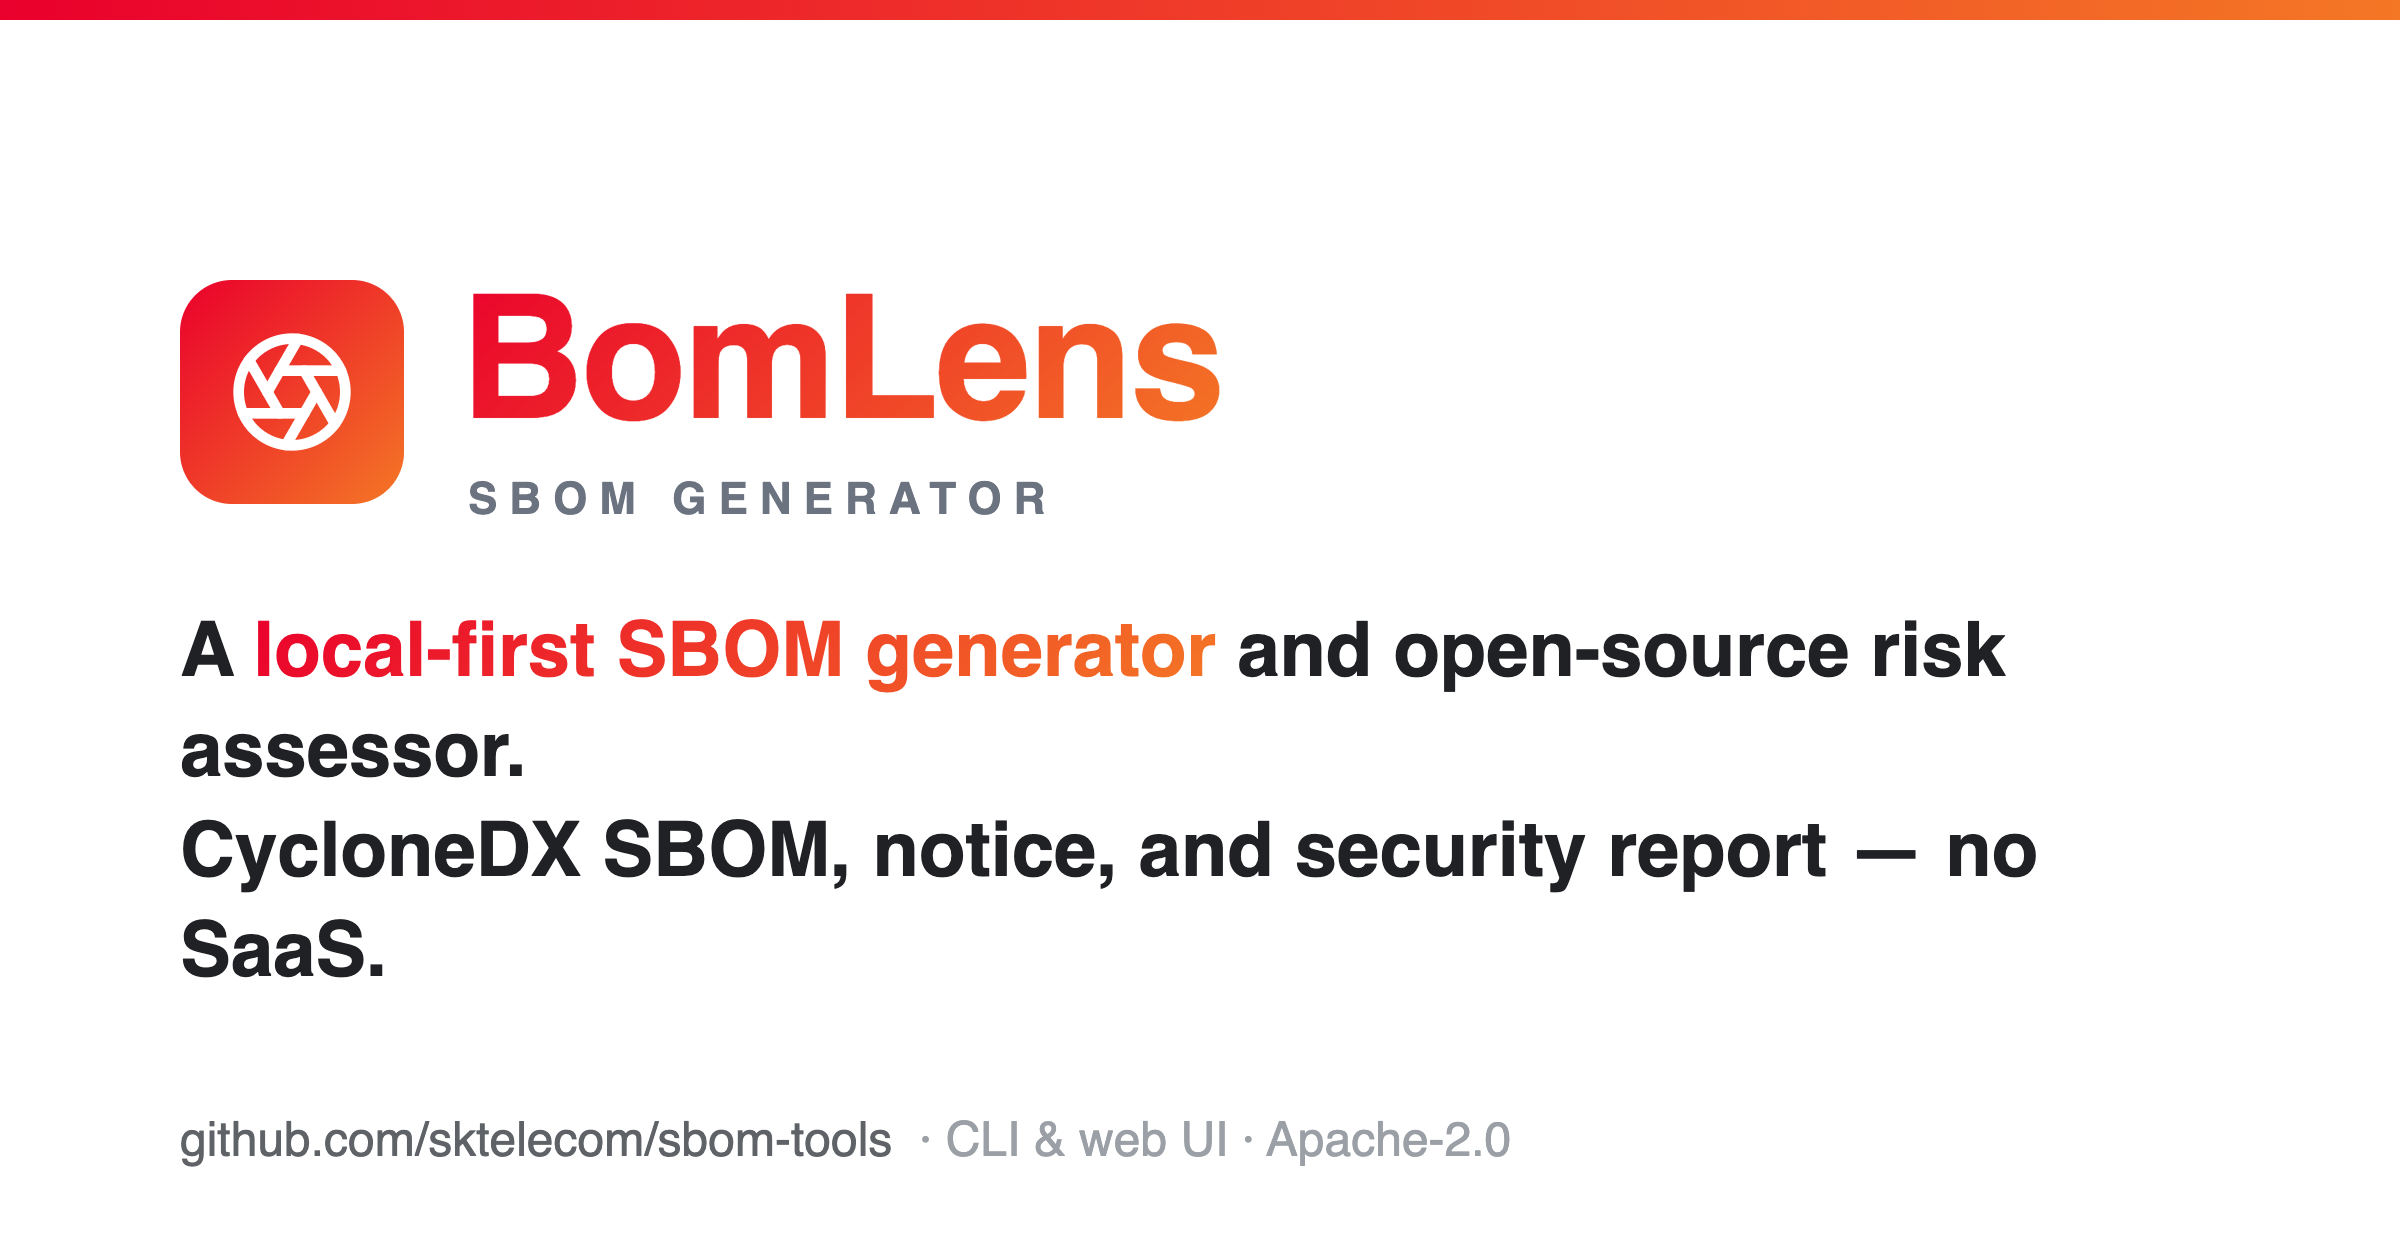
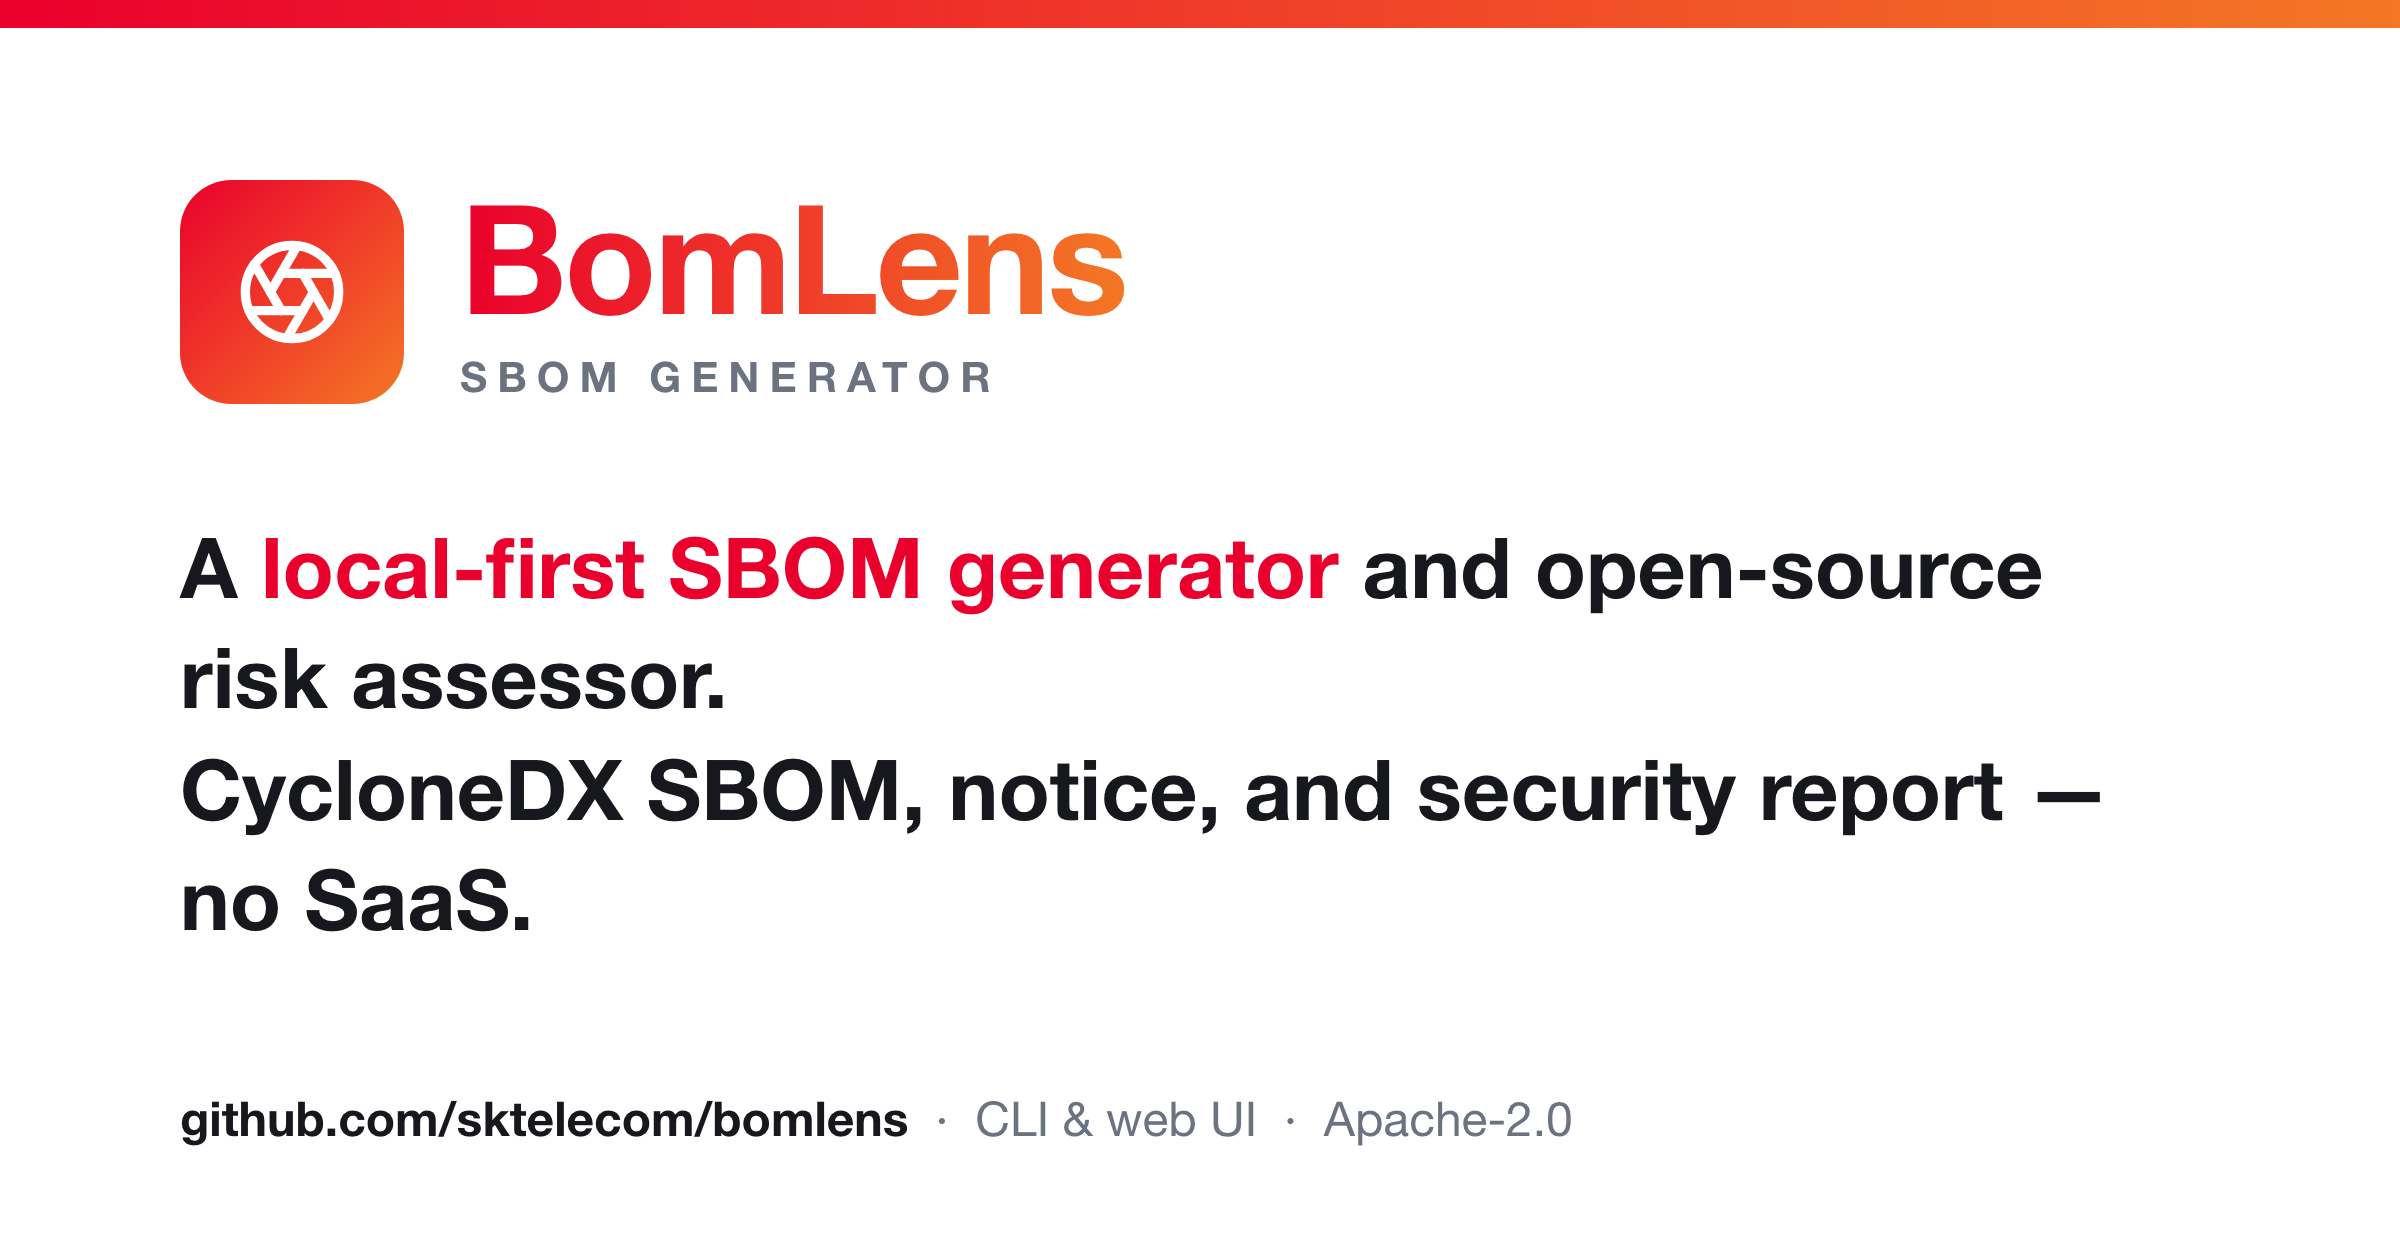
docs(site): rebuild the social card and keep its source in the repo (#560)
* docs(site): rebuild the social card and keep its source in the repo

docs/images/og-card.png still carried github.com/sktelecom/sbom-tools, the
pre-rename URL, and it is the Open Graph image the docs site serves for
every page (overrides/main.html). Anyone sharing a docs link was handing
out a repository address that no longer exists.

The PNG had no source in the repository, so it could not be corrected
without redrawing it. Add one:

- docs/images/src/og-card.html — the card as self-contained HTML, using
  the brand gradient and the logo mark inline, previewable in a browser.
- tests/ui/og-card.spec.ts and the capture:og script render it at the
  1200x630 Open Graph size (2x scale), following the same @capture
  convention as the guide screenshots.
- mkdocs excludes images/src/ so the source page is not published.

The regenerated card keeps the previous layout and wording and fixes the
URL.

* chore: stamp the new capture spec and correct the html exclusion note

og-card.spec.ts arrived without an SPDX header, which the gate added in
#579 rejects. Stamped with --fix.

That gate's comment claimed the SPA shell was the only hand-written
.html in the tree. This branch adds a second one, the social-card render
template, so the comment now says why hand-written markup is skipped:
its first line has to be the doctype.

Changed region(s): [[0.0625, 0.1238, 0.875, 0.7738], [0.0625, 0.8667, 0.6562, 0.9286], [0.0, 0.0, 1.0, 0.031]]

diff --git a/docs/images/src/og-card.html b/docs/images/src/og-card.html
@@ -1,0 +1,104 @@
+<!doctype html>
+<html lang="en">
+<head>
+<meta charset="utf-8" />
+<title>BomLens social card</title>
+<!--
+  Source for docs/images/og-card.png, the Open Graph card used by the docs site
+  (overrides/main.html) and by the repository's social preview setting.
+
+  Render it with:  npm run capture:og   (in docker/web/frontend)
+  which screenshots this file at 1200x630 through
+  tests/ui/og-card.spec.ts. Open this file in a browser to preview it.
+
+  Keep the wording in step with the repository description and the README
+  opening line; keep the URL in step with the repository name.
+-->
+<style>
+  :root {
+    --sk-red: #EA002C;
+    --sk-orange: #F47725;
+    --ink: #16181d;
+    --muted: #6b7280;
+  }
+  * { margin: 0; padding: 0; box-sizing: border-box; }
+  body {
+    width: 1200px;
+    height: 630px;
+    background: #ffffff;
+    font-family: "Helvetica Neue", Helvetica, Arial, sans-serif;
+    -webkit-font-smoothing: antialiased;
+    display: flex;
+    flex-direction: column;
+  }
+  .bar { height: 14px; background: linear-gradient(90deg, var(--sk-red), var(--sk-orange)); }
+  .body { flex: 1; padding: 76px 90px 56px; display: flex; flex-direction: column; }
+  .brand { display: flex; align-items: center; gap: 28px; }
+  .mark { width: 112px; height: 112px; flex: none; }
+  .wordmark {
+    font-size: 76px;
+    font-weight: 700;
+    letter-spacing: -1.5px;
+    line-height: 1;
+    background: linear-gradient(90deg, var(--sk-red), var(--sk-orange));
+    -webkit-background-clip: text;
+    background-clip: text;
+    color: transparent;
+  }
+  .kicker {
+    margin-top: 10px;
+    font-size: 21px;
+    font-weight: 700;
+    letter-spacing: 5px;
+    color: var(--muted);
+  }
+  .tagline {
+    margin-top: 54px;
+    font-size: 42px;
+    font-weight: 700;
+    line-height: 1.32;
+    color: var(--ink);
+    max-width: 1000px;
+  }
+  .tagline em { font-style: normal; color: var(--sk-red); }
+  .footer { margin-top: auto; font-size: 24px; color: var(--muted); }
+  .footer strong { color: var(--ink); font-weight: 600; }
+</style>
+</head>
+<body>
+  <div class="bar"></div>
+  <div class="body">
+    <div class="brand">
+      <svg class="mark" xmlns="http://www.w3.org/2000/svg" viewBox="0 0 48 48" role="img" aria-label="BomLens">
+        <defs>
+          <linearGradient id="bomlens-mark-grad" x1="0" y1="0" x2="1" y2="1">
+            <stop offset="0" stop-color="#EA002C"/>
+            <stop offset="1" stop-color="#F47725"/>
+          </linearGradient>
+        </defs>
+        <rect width="48" height="48" rx="11" fill="url(#bomlens-mark-grad)"/>
+        <g transform="translate(12 12)" fill="none" stroke="#ffffff" stroke-width="2" stroke-linecap="round" stroke-linejoin="round">
+          <circle cx="12" cy="12" r="10"/>
+          <line x1="14.31" y1="8" x2="20.05" y2="17.94"/>
+          <line x1="9.69" y1="8" x2="21.17" y2="8"/>
+          <line x1="7.38" y1="12" x2="13.12" y2="2.06"/>
+          <line x1="9.69" y1="16" x2="3.95" y2="6.06"/>
+          <line x1="14.31" y1="16" x2="2.83" y2="16"/>
+          <line x1="16.62" y1="12" x2="10.88" y2="21.94"/>
+        </g>
+      </svg>
+      <div>
+        <div class="wordmark">BomLens</div>
+        <div class="kicker">SBOM GENERATOR</div>
+      </div>
+    </div>
+
+    <p class="tagline">
+      A <em>local-first SBOM generator</em> and open-source risk assessor.<br />
+      CycloneDX SBOM, notice, and security report — no SaaS.
+    </p>
+
+    <p class="footer"><strong>github.com/sktelecom/bomlens</strong> &nbsp;·&nbsp; CLI &amp; web UI &nbsp;·&nbsp; Apache-2.0</p>
+  </div>
+</body>
+</html>

diff --git a/docker/web/frontend/tests/ui/og-card.spec.ts b/docker/web/frontend/tests/ui/og-card.spec.ts
@@ -1,0 +1,25 @@
+// Copyright 2026 SK Telecom Co., Ltd.
+// SPDX-License-Identifier: Apache-2.0
+
+import { test } from "@playwright/test";
+import path from "node:path";
+import { pathToFileURL } from "node:url";
+
+// Renders docs/images/src/og-card.html into docs/images/og-card.png, the Open
+// Graph card the docs site serves (overrides/main.html) and the image uploaded
+// as the repository's social preview. Run on demand with `npm run capture:og`;
+// the @capture tag keeps it out of the normal `test:ui` run, like the guide
+// screenshots in capture.spec.ts.
+//
+// 1200x630 is the Open Graph size; deviceScaleFactor 2 writes it at 2400x1260
+// so the card stays sharp where platforms render it larger.
+const IMAGES = "../../../docs/images";
+
+test.use({ viewport: { width: 1200, height: 630 }, deviceScaleFactor: 2 });
+
+test("@capture og card", async ({ page }) => {
+  const source = path.resolve(process.cwd(), `${IMAGES}/src/og-card.html`);
+  await page.goto(pathToFileURL(source).href);
+  await page.evaluate(() => document.fonts.ready);
+  await page.screenshot({ path: `${IMAGES}/og-card.png` });
+});
